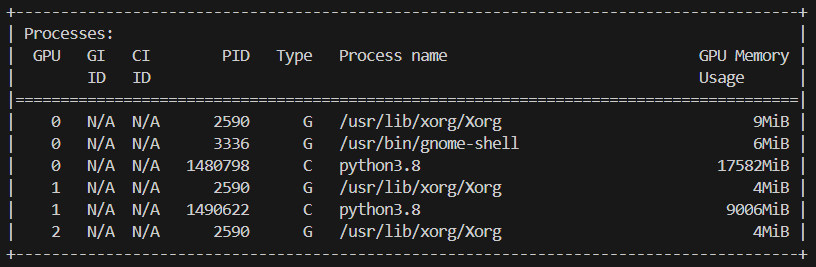
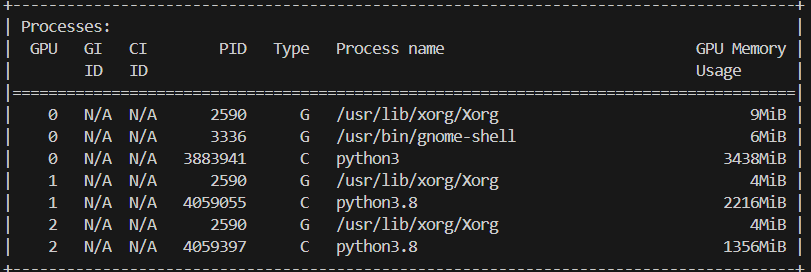
final

diff --git a/test_dlv3.py b/test_dlv3.py
@@ -15,34 +15,35 @@ torch.cuda.empty_cache()
 def inference(model, data_path, save_path, transform):
     time_taken = []
     model.eval()
-    for city in os.listdir(data_path):
-        img_dir = os.path.join(data_path, city)
-        tgt_dir = os.path.join(save_path, city)
-        os.makedirs(tgt_dir, exist_ok=True)
-        for file_name in os.listdir(img_dir):
-            if file_name.endswith('_leftImg8bit.png'):
-                img_path = os.path.join(img_dir, file_name)
-                tgt_name = file_name.replace('_leftImg8bit.png', '_labelId_preds.png')
-                tgt_path = os.path.join(tgt_dir, tgt_name)
+    with torch.no_grad():
+        for city in os.listdir(data_path):
+            img_dir = os.path.join(data_path, city)
+            tgt_dir = os.path.join(save_path, city)
+            os.makedirs(tgt_dir, exist_ok=True)
+            for file_name in os.listdir(img_dir):
+                if file_name.endswith('_leftImg8bit.png'):
+                    img_path = os.path.join(img_dir, file_name)
+                    tgt_name = file_name.replace('_leftImg8bit.png', '_labelId_preds.png')
+                    tgt_path = os.path.join(tgt_dir, tgt_name)
 
-                start = time()
+                    start = time()
 
-                image = transform(Image.open(img_path).convert('RGB')).unsqueeze(0).to(DEVICE)
-                pred_logits = model(image)
-                pred_mask = torch.argmax(pred_logits, dim=1).squeeze().cpu().numpy().astype(np.uint8)
-                pred_mask_color = convert_trainid_mask(
-                    pred_mask,
-                    to="labelid",
-                    name_to_trainId_path='./cityscapes/name_to_trainId.json',
-                    name_to_color_path='./cityscapes/name_to_color.json',
-                    name_to_labelId_path='./cityscapes/name_to_labelId.json',
-                ).astype(np.uint8)
-            
-                end = time()
+                    image = transform(Image.open(img_path).convert('RGB')).unsqueeze(0).to(DEVICE)
+                    pred_logits = model(image)
+                    pred_mask = torch.argmax(pred_logits, dim=1).squeeze().cpu().numpy().astype(np.uint8)
+                    pred_mask_color = convert_trainid_mask(
+                        pred_mask,
+                        to="labelid",
+                        name_to_trainId_path='./cityscapes/name_to_trainId.json',
+                        name_to_color_path='./cityscapes/name_to_color.json',
+                        name_to_labelId_path='./cityscapes/name_to_labelId.json',
+                    ).astype(np.uint8)
+                
+                    end = time()
 
-                img = Image.fromarray(pred_mask_color, mode='L')
-                img.save(tgt_path)
-                time_taken.append(end - start)
+                    img = Image.fromarray(pred_mask_color, mode='L')
+                    img.save(tgt_path)
+                    time_taken.append(end - start)
 
     print(f"Model inference on images from {data_path} has been recorded in {save_path}")
     print(f"Average time to run model on one image : {(sum(time_taken) / len(time_taken)):.4f}")
@@ -63,7 +64,7 @@ def main(cfg):
     inference(model, data_path='./data/leftImg8bit/test/', save_path=f"./outputs/dlv3_os_{cfg['output_stride']}", transform=transform_val_test)
 
 if __name__=="__main__":
-    parser = argparse.ArgumentParser(description="DeepLabV3 Inference")
+    parser = argparse.ArgumentParser(description="DeepLabV3 Evaluation")
     parser.add_argument("--backbone", type=str, required=False, default="resnet50", help="Backbone to use")
     parser.add_argument("--output_stride", type=int, required=False, default=8, help="Set output stride of backbone")
     parser.add_argument("--model_weights_path", type=str, required=True, help="Path to the model weights")
@@ -72,11 +73,14 @@ if __name__=="__main__":
     model_weights_path = args.model_weights_path
     output_stride = args.output_stride
     config = {
+        'ignore_class': 19,
         'train_crop_size': [1024, 1024],
         'norm_mean': [0.485, 0.456, 0.406],
         'norm_std': [0.229, 0.224, 0.225],
         'backbone': backbone,
         'num_classes': 20,
+        'output_stride': output_stride,
+        'backbone': backbone,
         'output_stride': output_stride,
         'model_weights_path': model_weights_path,
     }

diff --git a/README.md b/README.md
@@ -78,10 +78,6 @@ python test_dlv3.py  --backbone "{resnet50/resnet101/resnet152}" --output_stride
   <tr>
     <td><img src="./outputs/cat os8.png" style="width: 100%;"/></td>
   </tr>
-  <tr>
-    <td><img src="./outputs/inf os16.png" style="width: 100%;"/></td>
-    <td><img src="./outputs/inf os8.png" style="width: 100%;"/></td>
-  </tr>
 </table>
 
 Comment: The code saves all the predictions in the directory [outputs/{model_name}](./outputs/) which can be zipped and uploaded to the official evaluation server to get the model performance evaluated.
@@ -98,7 +94,13 @@ Comment: The code saves all the predictions in the directory [outputs/{model_nam
 ## Model Details
 - Memory Requirements of Models:
 ![Memory Requirements of Models](./outputs/mem.png)
+- Average Inference time of DeepLabV3 Resnet-50 Output Stride 8 Model:
+![Average Inference time of DeepLabV3 Resnet-50 Output Stride 8 Model](./outputs/inf%20os8.png)
+- Average Inference time of DeepLabV3 Resnet-50 Output Stride 16 Model:
+![Average Inference time of DeepLabV3 Resnet-50 Output Stride 16 Model](./outputs/inf%20os16.png)
 
 Comment:
-- DeepLabV3 Resnet-50 Output Stride 8 Model requires 17.5 GB VRAM for inference on complete image of size 1024 x 2048.
-- DeepLabV3 Resnet-50 Output Stride 16 Model requires 9.0 GB VRAM for inference on complete image of size 1024 x 2048.
+- DeepLabV3 Resnet-50 Output Stride 8 Model (pid=4059055) requires 2.2 GB VRAM for inference on complete image of size 1024 x 2048.
+- DeepLabV3 Resnet-50 Output Stride 16 Model (pid=4059397) requires 1.3 GB VRAM for inference on complete image of size 1024 x 2048.
+- DeepLabV3 Resnet-50 Output Stride 8 Model takes about 0.19 seconds for inference on complete image of size 1024 x 2048.
+- DeepLabV3 Resnet-50 Output Stride 16 Model takes about 0.12 seconds for inference on complete image of size 1024 x 2048.
